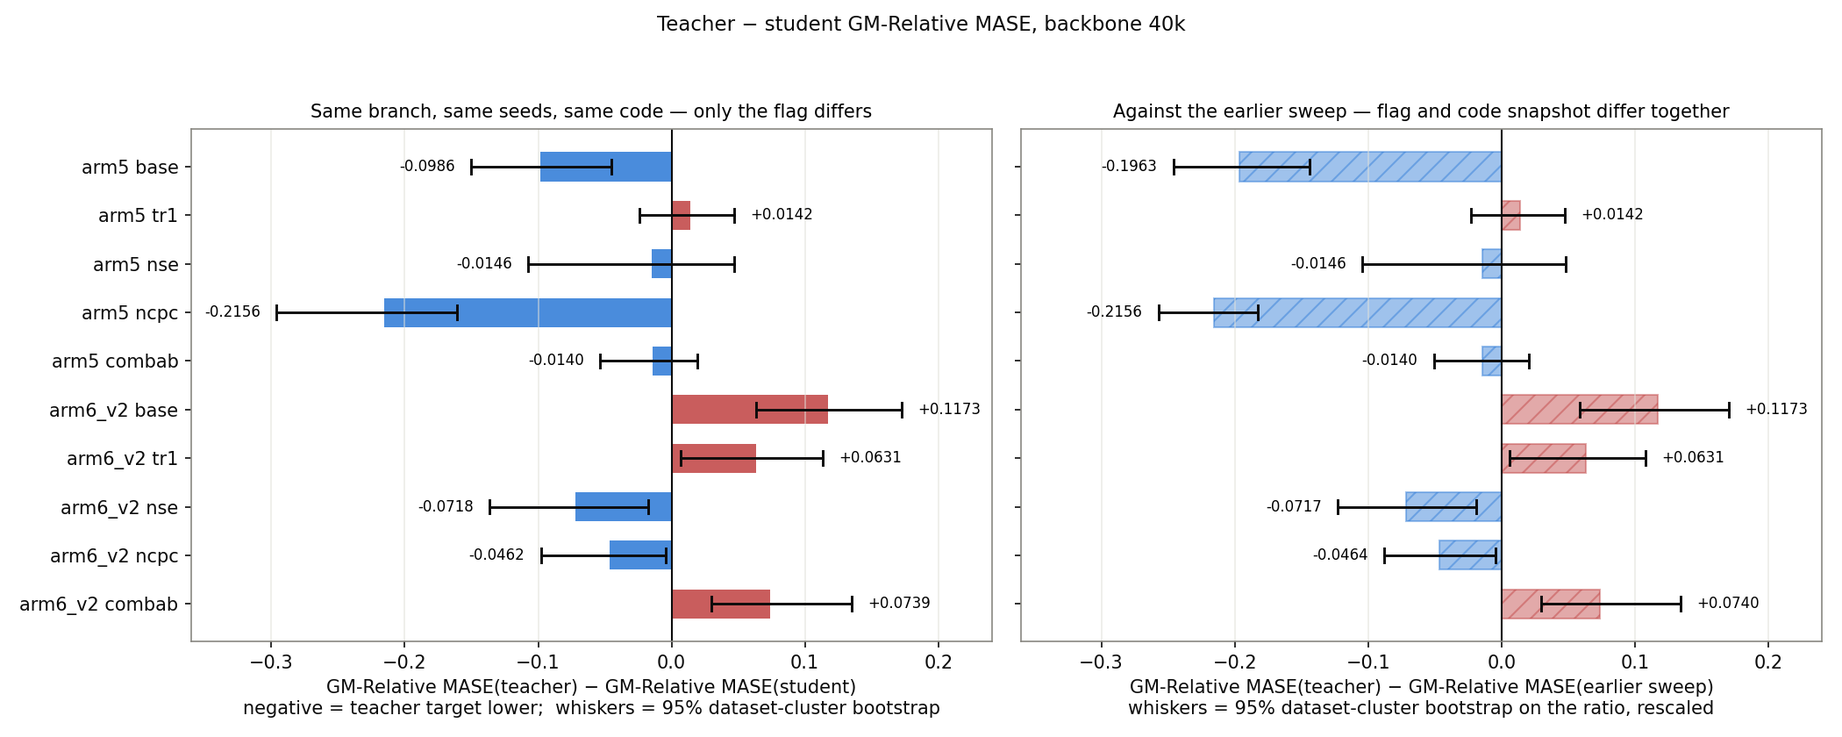
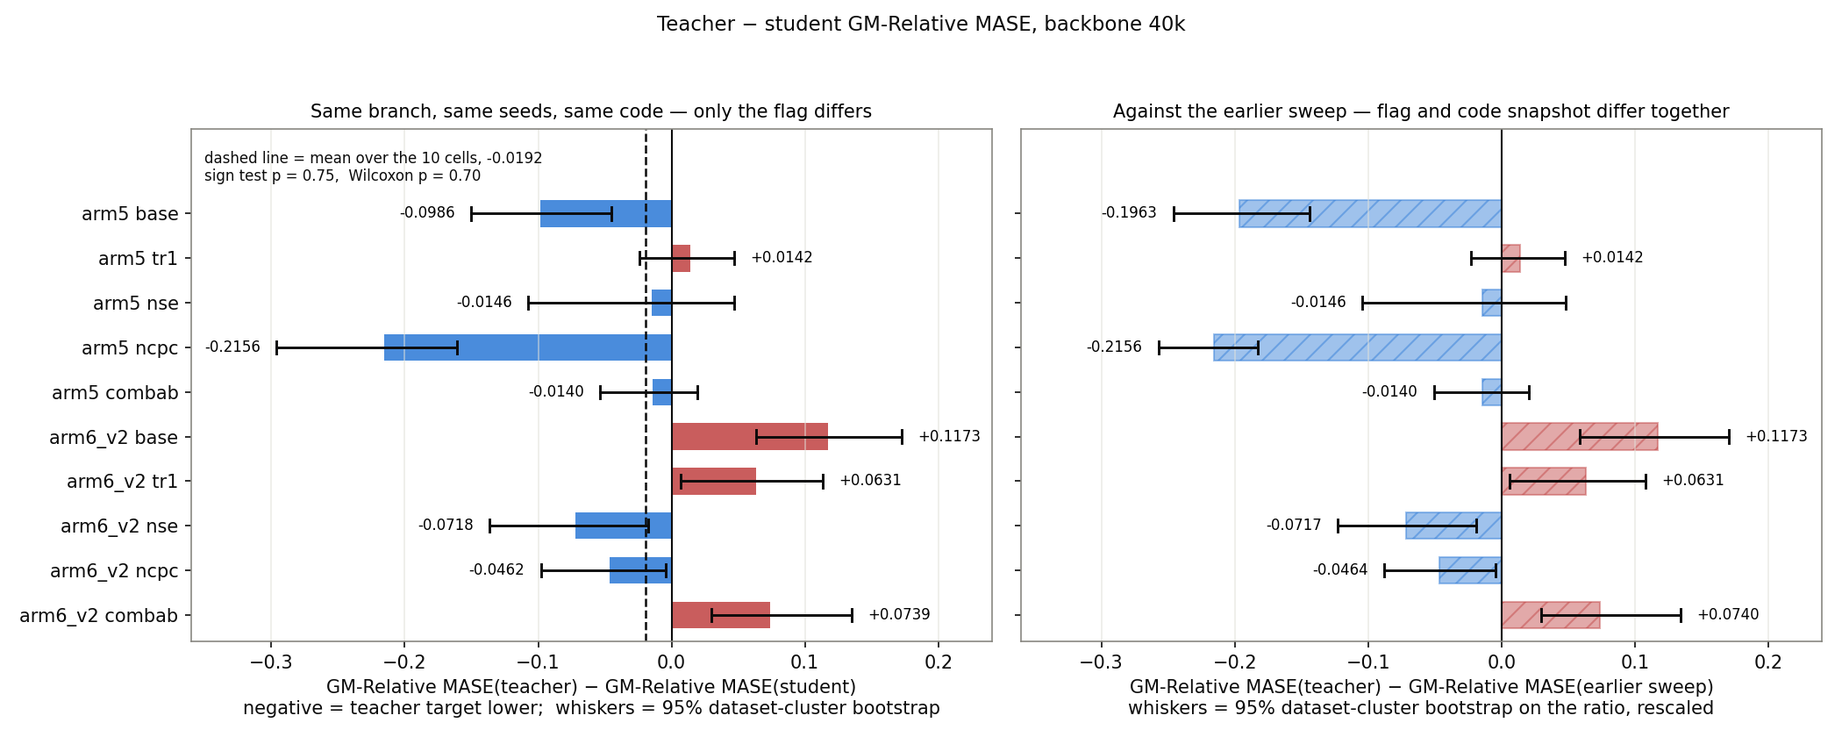
exp(#390): tenth-pass report — snapshot table, aggregate on the headline plot, tables to the back

diff --git a/reports/2026-08-04_lalign_teacher/plots/_make_controlled_delta.py b/reports/2026-08-04_lalign_teacher/plots/_make_controlled_delta.py
@@ -78,6 +78,19 @@ for y, arm in zip(ys, ARMS):
             f"{d:+.4f}", va="center",
             ha="right" if d < 0 else "left", fontsize=8)
 ax.axvline(0.0, color=INK, lw=1.0)
+
+# Aggregate over the ten cells: mean delta, and the two paired tests on it.
+agg = next(r for r in load(RESULTS / "controlled_paired_tests_40k.csv")
+           if r["comparison"] == "controlled" and r["bb_steps"] == "40000")
+mean_d = float(agg["mean_delta"])
+ax.axvline(mean_d, color=INK, lw=1.2, ls="--")
+ax.text(-0.35, len(ARMS) - 0.35,
+        f"dashed line = mean over the 10 cells, {mean_d:+.4f}\n"
+        f"sign test p = {float(agg['sign_test_p']):.2f},  "
+        f"Wilcoxon p = {float(agg['wilcoxon_p']):.2f}",
+        ha="left", va="bottom", fontsize=8, color=INK)
+ax.set_ylim(-0.6, len(ARMS) + 0.9)
+
 ax.set_title("Same branch, same seeds, same code — only the flag differs",
              fontsize=10)
 ax.set_xlabel("GM-Relative MASE(teacher) − GM-Relative MASE(student)\n"

diff --git a/reports/2026-08-04_lalign_teacher/lalign_teacher.md b/reports/2026-08-04_lalign_teacher/lalign_teacher.md
@@ -1,18 +1,18 @@
 # The EMA-teacher alignment target moves individual cells in both directions and does not move the set of 10 either way
 
-Pointing `L_align` at the EMA teacher moves 7 of the 10 measured cells by more than their bootstrap interval, 4 down and 3 up. Over the 10 cells the mean difference is −0.0192 and the median −0.0143, with 6 lower and 4 higher (sign test p = 0.75, Wilcoxon p = 0.70).
+Pointing `L_align` at the EMA teacher moves 7 of the 10 measured cells past their bootstrap interval, in both directions. Over the set of ten the mean shift is not separable from zero.
 
-![Teacher minus student GM-Relative MASE, backbone 40k, two comparisons](plots/controlled_vs_cross_delta.png)
+![Teacher minus student GM-Relative MASE at backbone 40k](plots/controlled_vs_cross_delta.png)
 
-*Left: the controlled comparison, where only `--align-target` differs. Right: the cross-experiment comparison, where the flag and the code snapshot differ together. Whiskers on both panels are 95% dataset-cluster bootstrap intervals (`results/controlled_delta_40k.csv`, `results/eval_bootstrap_ci.csv`).*
+*Teacher minus student GM-Relative MASE at backbone 40k: controlled (left), cross-experiment (right).*
 
-The earlier small-model sweep computed `L_align` against the student encoder under stop-gradient rather than against the EMA teacher it was meant to target, and the ten `L_align` cells here are that retrain, with the teacher. The metric is **GM-Relative MASE**, the geometric mean over 97 GIFT-Eval configs of `MASE(model) / MASE(seasonal_naive)`, where lower is better and 1.0 is parity.
+The right panel moves the flag and the code snapshot together, so only the left panel attributes a difference to the flag. The ten `L_align` cells here were retrained with `L_align` targeting the EMA teacher. The metric is **GM-Relative MASE**, the geometric mean over 97 GIFT-Eval configs of `MASE(model) / MASE(seasonal_naive)`, where lower is better and 1.0 is parity.
 
 ![GM-Relative MASE of all 30 cells at backbone 40k, seasonal-naive parity dashed](plots/eval_2L_gm_mase_bars.png)
 
 *All 30 cells at backbone 40k against the dashed parity line at 1.0. Coloured = the 10 cells retrained with `--align-target teacher`.*
 
-> **Cell** here is one loss recipe plus one setting, e.g. `arm5 combab`. The CSVs name it `arm_slug`. A cell measured under several head seeds is still one cell. The recipes and the settings are tabulated in [Protocol](#8-protocol).
+> **Cell** here is one loss recipe plus one setting, e.g. `arm5 combab`. The CSVs name it `arm_slug`. A cell measured under several head seeds is still one cell. The recipes and the settings are tabulated in [Protocol](#9-protocol).
 
 ## 1. What the flag does when nothing else changes
 
@@ -29,17 +29,30 @@ The earlier small-model sweep computed `L_align` against the student encoder und
 | `arm6_v2 ncpc` | 1.3159 | 1.3621 |
 | `arm6_v2 combab` | 1.2765 | 1.2025 |
 
-*The differences and their intervals are the left panel above. Backbone 40 000 pretraining steps, quantile head 15 000 steps on the frozen backbone, 97 GIFT-Eval configs under the official **B4 strategy** (single-window in-context prediction), forecast horizon 16. Intervals are dataset-level paired cluster bootstraps over the 28 base datasets, 10 000 resamples (`results/controlled_delta_40k.csv`, `experiments/2026-08-01_lalign_teacher/scripts/controlled_delta.py`).*
+*Controlled comparison at backbone 40k: GM-Relative MASE, teacher target against the same-branch student control (`results/controlled_delta_40k.csv`). The differences and their intervals are the left panel above.*
 
-Nine of the ten controls reproduce the earlier sweep to within 0.000157, four of them bit-identical across all 97 configs, and `arm5 base` is the one that does not, 1.547783 against 1.450053, a difference of −0.09773 with no config in common (`results/snapshot_reproduction_40k.csv`).
+| Cell | earlier sweep | this branch | difference | configs identical / 97 |
+|---|---|---|---|---|
+| `arm5 base` | 1.547783 | 1.450053 | −0.097730 | 0 |
+| `arm5 tr1` | 1.325372 | 1.325372 | +0.000000 | 97 |
+| `arm5 nse` | 1.468179 | 1.468179 | +0.000000 | 97 |
+| `arm5 ncpc` | 1.507886 | 1.507886 | +0.000000 | 97 |
+| `arm5 combab` | 1.286777 | 1.286803 | +0.000026 | 0 |
+| `arm6_v2 base` | 1.314899 | 1.314870 | −0.000028 | 0 |
+| `arm6_v2 tr1` | 1.468361 | 1.468361 | +0.000000 | 97 |
+| `arm6_v2 nse` | 1.379123 | 1.379195 | +0.000072 | 0 |
+| `arm6_v2 ncpc` | 1.362271 | 1.362114 | −0.000157 | 0 |
+| `arm6_v2 combab` | 1.202512 | 1.202512 | +0.000000 | 97 |
+
+*The student control against the earlier sweep's number for the same cell: same flag, different code snapshot (`results/snapshot_reproduction_40k.csv`).*
 
 ## 2. How far a cell moves under nothing but a head seed, on four frozen backbones
 
 ![Per-seed GM-Relative MASE on four frozen backbones](plots/head_seed_spread.png)
 
-*Four frozen backbones, the quantile head retrained under extra seeds — its init and its data order — and the full 97-config eval re-run each time (`results/seed_spread.csv`). Only these four cells carry replicate head seeds.*
+*Four frozen backbones, the quantile head retrained under extra seeds — its init and its data order — and the full 97-config eval re-run each time (`results/seed_spread.csv`).*
 
-Of the 20 cross-experiment differences in section 5, 8 exceed the largest head-seed range in absolute value and 11 exceed it in relative value.
+Only these four cells carry replicate head seeds.
 
 ## 3. Where the 30 cells sit across backbone horizons
 
@@ -50,6 +63,67 @@ Of the 20 cross-experiment differences in section 5, 8 exceed the largest head-s
 ![GM-Relative MASE of the 8 cells extended to backbone 200k](plots/eval_2L_gm_mase_bars_200k.png)
 
 *The 8 cells extended past 100k. Filled dot = backbone 200k, hollow = 100k, vertical whisker = measured head-seed range, on the 3 of 8 cells that carry replicate seeds.*
+
+## 4. Which domains the lowest cells win on
+
+The left radar puts cells measured at backbone 100k and at 200k on one chart, so it moves the backbone step as well as the cell.
+
+![Two radars of per-domain relative MASE](plots/eval_domain_radar.png)
+
+*The headline geometric mean split by dataset domain. Per-config source: `results/eval_gm_mase/<cell>/all_results.csv`, same seasonal-naive denominator as the aggregate.*
+
+| Cell (bb 200k) | Energy (32) | Web/CloudOps (20) | Transport (15) | Nature (15) | Econ/Fin (6) | Healthcare (5) | Sales (4) | all 97 |
+|---|---|---|---|---|---|---|---|---|
+| `arm6_v2 combab` ⟲ | 1.388 | 1.283 | 1.021 | **0.867** | 1.489 | 1.261 | **0.830** | 1.1850 |
+| `arm1 nse` | 1.594 | 1.368 | 1.226 | **0.954** | 1.823 | 1.225 | **0.898** | 1.3308 |
+| `arm6_v2 ncpc` ⟲ | 1.553 | 1.470 | 1.133 | **0.943** | 2.070 | 1.230 | **0.917** | 1.3325 |
+| `bimoco base` | 1.668 | 1.554 | 1.195 | **0.978** | 2.192 | 1.234 | **0.840** | 1.3993 |
+| `arm1 ncpc` | 1.617 | 1.559 | 1.173 | **0.998** | 2.442 | 1.329 | **0.886** | 1.4041 |
+| `arm3 tr1` | 1.744 | 1.693 | 1.202 | **0.980** | 2.469 | 1.386 | **0.897** | 1.4706 |
+| `arm1 combab` | 1.985 | 1.799 | 1.379 | 1.208 | 3.934 | 1.572 | 1.068 | 1.7107 |
+| `arm5 nse` ⟲ | 2.394 | 2.111 | 1.836 | 1.324 | 2.075 | 1.340 | **0.912** | 1.8887 |
+| *cells below 1.0, of 8* | 0/8 | 0/8 | 0/8 | 6/8 | 0/8 | 0/8 | 7/8 | 0/8 |
+
+*Configs per domain in brackets. Bold = below 1.0. Source: `results/eval_gm_mase/<cell>_bb200k_hd30000s/all_results.csv`.*
+
+## 5. The retrained cells against the earlier sweep
+
+Of the 20 cross-experiment differences, 8 exceed the largest head-seed range in absolute value and 11 exceed it in relative value. Across the ten cells the direction is 6 lower at 40k and 4 lower at 100k, sign test p = 0.75 at both steps (`results/eval_paired_tests.csv`); the 40k differences are the right panel of the headline figure and the 100k ones are in [Tables](#8-tables).
+
+## 6. Does latent movement track the improvement
+
+![Late h_t drift against the 100k to 200k change in GM-Relative MASE](plots/drift_vs_improvement.png)
+
+*Panels 1 and 2: `h_t` drift between adjacent checkpoints, and GM-Relative MASE on the same axis, for the 5 of the 8 extended cells whose GM-Relative MASE fell from 100k to 200k (`arm6_v2 combab`, `arm1 nse`, `bimoco base`, `arm1 ncpc`, `arm1 combab`). Panel 3: mean late drift against the 100k→200k change, all 8 extended cells (`results/latent_movement_pairs.csv`, 250 pairs over the 30 arms).*
+
+**Late drift** is the mean `h_t` drift over adjacent-checkpoint pairs beyond backbone step 100 000; against the 100k→200k change it gives Spearman ρ = −0.33 on n = 8 cells at p = 0.42, so it does not separate the improvers at this sample size.
+
+| Setting | `h_t` drift lower than base / 6 | `h_t` p | `e_t` drift lower than base / 6 | `e_t` p |
+|---|---|---|---|---|
+| `ncpc` | 1/6 (arm5) | 0.219 | 4/6 | 0.688 |
+| `nse` | 3/6 (arm3 / arm4 / arm5) | 1.000 | 2/6 | 0.688 |
+| `tr1` | 1/6 (arm5) | 0.219 | 2/6 | 0.688 |
+| `combab` | 1/6 (arm5) | 0.219 | 4/6 | 0.688 |
+
+*Drift against the base setting of the same recipe, per latent (`results/latent_movement_pairs.csv`).*
+
+## 7. Backbone loss and attention logit magnitude of the highest cell at each backbone step
+
+![Backbone loss and attention logit magnitude of the highest cell at each backbone step](plots/per_run_loss.png)
+
+*The selected run in colour, the other four settings of the same recipe in grey (`results/training_curves/`, `results/attn_amplitude/`).*
+
+| Cell | GM-Rel MASE | loss, start of 0–40k | end of 0–40k | end of 40–100k | end of 100–200k | peak qk logit | qk rank / 40 | rise-from-min | rise rank / 40 |
+|---|---|---|---|---|---|---|---|---|---|
+| `arm1 combab` | 3.1251 @ 40k | 19.03 | 19.82 | 19.54 | 19.75 | 6.51 | 1 | 4.4648 | 40 |
+| `arm5 nse` ⟲ | 1.8887 @ 200k | 19.80 | 14.11 | 13.95 | 13.97 | 259.94 | 40 | 0.0688 | 7 |
+| `arm6_v2 base` ⟲ | 1.9057 @ 100k | 12.98 | 4.92 | 4.92 | — | 12.75 | 7 | 0.2342 | 16 |
+
+*The three cells are selected by one rule: the highest GM-Relative MASE of the field at backbone 40k, at 100k and at 200k (`results/gm_relative_mase.csv`, `results/anomaly_windows.csv`, `results/anomaly_inspection.csv`). No non-finite loss or gap appears in any of the 40 backbones.*
+
+## 8. Tables
+
+### The 30 cells across backbone horizons
 
 | Rank @100k | Cell | bb 40k (head 15k) | bb 100k (head 30k) | 40k→100k | bb 200k (head 30k) | 100k→200k |
 |---|---|---|---|---|---|---|
@@ -84,93 +158,26 @@ Of the 20 cross-experiment differences in section 5, 8 exceed the largest head-s
 | 29 | `arm1 combab` | 3.1251 | 1.7595 | −1.3656 | 1.7107 | −0.0488 |
 | 30 | `arm6_v2 base` ⟲ | 1.4322 | 1.9057 † | +0.4735 | — | — |
 
-*Ranked by the 100k value. `⟲` marks a cell retrained with `--align-target teacher`; the other 20 carry no `L_align` term and are the earlier sweep's numbers, on the same seasonal-naive denominator. A dash means the cell was not extended. Values are head seed 20260722. † replicate head seeds (`results/seed_spread.csv`): `arm6_v2 base` @100k 1.8541 / 1.8659 / 1.9057, mean 1.8752, range 0.0516 — the value shown is seed 20260722 of the three. `arm5 nse` @200k 1.7979 / 1.8655 / 1.8887, mean 1.8507, range 0.0908. `arm6_v2 combab` @200k mean 1.1851, range 0.0063. `arm6_v2 ncpc` @200k mean 1.3472, range 0.0252.*
+*Backing data for section 3, ranked by the 100k value. `⟲` marks a cell retrained with `--align-target teacher`; the other 20 carry no `L_align` term and are the earlier sweep's numbers, on the same seasonal-naive denominator. A dash means the cell was not extended. Values are head seed 20260722. † the cell carries replicate head seeds; their spreads are in section 2 (`results/seed_spread.csv`).*
 
-## 4. Which domains the lowest cells win on
+### The retrained cells against the earlier sweep, backbone 100k
 
-The left radar puts cells measured at backbone 100k and at 200k on one chart, so it moves the backbone step as well as the cell.
+| Cell | teacher | earlier sweep | ratio | CI 95% lo | CI 95% hi | CI excludes 1 |
+|---|---|---|---|---|---|---|
+| `arm5 base` | 1.4510 | 1.5579 | 0.9314 | 0.8881 | 0.9669 | yes |
+| `arm5 tr1` | 1.3710 | 1.4249 | 0.9622 | 0.9061 | 1.0084 | no |
+| `arm5 nse` | 1.4017 | 1.3980 | 1.0026 | 0.9657 | 1.0395 | no |
+| `arm5 ncpc` | 1.3419 | 1.4459 | 0.9281 | 0.8658 | 0.9753 | yes |
+| `arm5 combab` | 1.3678 | 1.2456 | 1.0981 | 1.0645 | 1.1346 | yes |
+| `arm6_v2 base` | 1.9057 | 1.3449 | 1.4169 | 1.3030 | 1.5135 | yes |
+| `arm6_v2 tr1` | 1.7064 | 1.5188 | 1.1236 | 1.0766 | 1.1705 | yes |
+| `arm6_v2 nse` | 1.3368 | 1.3914 | 0.9608 | 0.9343 | 0.9864 | yes |
+| `arm6_v2 ncpc` | 1.3012 | 1.2978 | 1.0027 | 0.9672 | 1.0452 | no |
+| `arm6_v2 combab` | 1.2514 | 1.1616 | 1.0773 | 1.0439 | 1.1254 | yes |
 
-![Two radars of per-domain relative MASE](plots/eval_domain_radar.png)
+*Backing data for section 5. This comparison moves the flag and the code snapshot together, so it does not attribute a difference to the flag; section 1 is the one that does. Ratio = teacher ÷ earlier sweep, below 1.0 means the teacher run scored lower. Intervals are 95% dataset-cluster bootstraps (`results/eval_bootstrap_ci.csv`). The backbone-40k rows of the same file are the right panel of the headline figure.*
 
-*The headline geometric mean split by dataset domain. Per-config source: `results/eval_gm_mase/<cell>/all_results.csv`, same seasonal-naive denominator as the aggregate.*
-
-| Cell (bb 200k) | Energy (32) | Web/CloudOps (20) | Transport (15) | Nature (15) | Econ/Fin (6) | Healthcare (5) | Sales (4) | all 97 |
-|---|---|---|---|---|---|---|---|---|
-| `arm6_v2 combab` ⟲ | 1.388 | 1.283 | 1.021 | **0.867** | 1.489 | 1.261 | **0.830** | 1.1850 |
-| `arm1 nse` | 1.594 | 1.368 | 1.226 | **0.954** | 1.823 | 1.225 | **0.898** | 1.3308 |
-| `arm6_v2 ncpc` ⟲ | 1.553 | 1.470 | 1.133 | **0.943** | 2.070 | 1.230 | **0.917** | 1.3325 |
-| `bimoco base` | 1.668 | 1.554 | 1.195 | **0.978** | 2.192 | 1.234 | **0.840** | 1.3993 |
-| `arm1 ncpc` | 1.617 | 1.559 | 1.173 | **0.998** | 2.442 | 1.329 | **0.886** | 1.4041 |
-| `arm3 tr1` | 1.744 | 1.693 | 1.202 | **0.980** | 2.469 | 1.386 | **0.897** | 1.4706 |
-| `arm1 combab` | 1.985 | 1.799 | 1.379 | 1.208 | 3.934 | 1.572 | 1.068 | 1.7107 |
-| `arm5 nse` ⟲ | 2.394 | 2.111 | 1.836 | 1.324 | 2.075 | 1.340 | **0.912** | 1.8887 |
-| *cells below 1.0, of 8* | 0/8 | 0/8 | 0/8 | 6/8 | 0/8 | 0/8 | 7/8 | 0/8 |
-
-*Configs per domain in brackets. Bold = below 1.0. Source: `results/eval_gm_mase/<cell>_bb200k_hd30000s/all_results.csv`.*
-
-## 5. The retrained cells against the earlier sweep
-
-Across the ten cells the direction is 6 lower at 40k and 4 lower at 100k, sign test p = 0.75 at both steps (`results/eval_paired_tests.csv`).
-
-| Cell | bb steps | teacher | earlier sweep | ratio | CI 95% lo | CI 95% hi | CI excludes 1 |
-|---|---|---|---|---|---|---|---|
-| `arm5 base` | 40k | 1.3515 | 1.5478 | 0.8732 | 0.8411 | 0.9069 | yes |
-| `arm5 tr1` | 40k | 1.3396 | 1.3254 | 1.0107 | 0.9827 | 1.0359 | no |
-| `arm5 nse` | 40k | 1.4536 | 1.4682 | 0.9901 | 0.9288 | 1.0327 | no |
-| `arm5 ncpc` | 40k | 1.2923 | 1.5079 | 0.8570 | 0.8294 | 0.8787 | yes |
-| `arm5 combab` | 40k | 1.2728 | 1.2868 | 0.9891 | 0.9606 | 1.0160 | no |
-| `arm6_v2 base` | 40k | 1.4322 | 1.3149 | 1.0892 | 1.0447 | 1.1295 | yes |
-| `arm6_v2 tr1` | 40k | 1.5315 | 1.4684 | 1.0430 | 1.0041 | 1.0737 | yes |
-| `arm6_v2 nse` | 40k | 1.3074 | 1.3791 | 0.9480 | 0.9109 | 0.9861 | yes |
-| `arm6_v2 ncpc` | 40k | 1.3159 | 1.3623 | 0.9660 | 0.9356 | 0.9966 | yes |
-| `arm6_v2 combab` | 40k | 1.2765 | 1.2025 | 1.0615 | 1.0249 | 1.1117 | yes |
-| `arm5 base` | 100k | 1.4510 | 1.5579 | 0.9314 | 0.8881 | 0.9669 | yes |
-| `arm5 tr1` | 100k | 1.3710 | 1.4249 | 0.9622 | 0.9061 | 1.0084 | no |
-| `arm5 nse` | 100k | 1.4017 | 1.3980 | 1.0026 | 0.9657 | 1.0395 | no |
-| `arm5 ncpc` | 100k | 1.3419 | 1.4459 | 0.9281 | 0.8658 | 0.9753 | yes |
-| `arm5 combab` | 100k | 1.3678 | 1.2456 | 1.0981 | 1.0645 | 1.1346 | yes |
-| `arm6_v2 base` | 100k | 1.9057 | 1.3449 | 1.4169 | 1.3030 | 1.5135 | yes |
-| `arm6_v2 tr1` | 100k | 1.7064 | 1.5188 | 1.1236 | 1.0766 | 1.1705 | yes |
-| `arm6_v2 nse` | 100k | 1.3368 | 1.3914 | 0.9608 | 0.9343 | 0.9864 | yes |
-| `arm6_v2 ncpc` | 100k | 1.3012 | 1.2978 | 1.0027 | 0.9672 | 1.0452 | no |
-| `arm6_v2 combab` | 100k | 1.2514 | 1.1616 | 1.0773 | 1.0439 | 1.1254 | yes |
-
-*This comparison moves the flag and the code snapshot together, so it does not attribute a difference to the flag; section 1 is the one that does. Ratio = teacher ÷ earlier sweep, below 1.0 means the teacher run scored lower. Intervals are dataset-level paired cluster bootstraps, 10 000 resamples (`results/eval_bootstrap_ci.csv`).*
-
-## 6. Does latent movement track the improvement
-
-![Late h_t drift against the 100k to 200k change in GM-Relative MASE](plots/drift_vs_improvement.png)
-
-*Panels 1 and 2: `h_t` drift between adjacent checkpoints, and GM-Relative MASE on the same axis, for the 5 of the 8 extended cells whose GM-Relative MASE fell from 100k to 200k (`arm6_v2 combab`, `arm1 nse`, `bimoco base`, `arm1 ncpc`, `arm1 combab`). Panel 3: mean late drift against the 100k→200k change, all 8 extended cells (`results/latent_movement_pairs.csv`, 250 pairs over the 30 arms).*
-
-Panel 3 gives Spearman ρ = −0.33 on n = 8 cells at p = 0.42, so late drift does not separate the improvers at this sample size.
-
-*A setting counts as* lower *when its mean `1 − cos` displacement over adjacent-checkpoint pairs falls below the base setting of the same recipe; denominator is the six recipes, p is a two-sided exact binomial test (`results/latent_movement_pairs.csv`).*
-
-| Setting | `h_t` drift lower than base / 6 | `h_t` p | `e_t` drift lower than base / 6 | `e_t` p |
-|---|---|---|---|---|
-| `ncpc` | 1/6 (arm5) | 0.219 | 4/6 | 0.688 |
-| `nse` | 3/6 (arm3 / arm4 / arm5) | 1.000 | 2/6 | 0.688 |
-| `tr1` | 1/6 (arm5) | 0.219 | 2/6 | 0.688 |
-| `combab` | 1/6 (arm5) | 0.219 | 4/6 | 0.688 |
-
-## 7. Backbone loss and attention logit magnitude of the highest cell at each backbone step
-
-![Backbone loss and attention logit magnitude of the highest cell at each backbone step](plots/per_run_loss.png)
-
-*The three cells below are selected by one rule: the highest GM-Relative MASE of the field at backbone 40k, at 100k and at 200k (`results/gm_relative_mase.csv`). The selected run in colour, the other four settings of the same recipe in grey (`results/training_curves/`, `results/attn_amplitude/`). Lower panels: `qk_logit_maxabs` averaged over layers and blocks; the table column is the maximum, not this mean.*
-
-*Each loss value is the mean over the first, or the last, 5% of the logged steps of that window, not the value at a single step (`results/anomaly_windows.csv`). **Rise-from-minimum** is the run's final loss minus the lowest loss it ever recorded. **Peak qk logit** is `qk_logit_maxabs`, the peak absolute pre-softmax attention logit, logged every 200 steps; the value is the maximum over layers, over the `enc` and `fcst` blocks, and over the run. Rank 1 = lowest of the 40 backbones. No non-finite loss or gap appears in any of the 40 (`results/anomaly_inspection.csv`).*
-
-| Cell | GM-Rel MASE | loss, start of 0–40k | end of 0–40k | end of 40–100k | end of 100–200k | peak qk logit | rank of 40 | rise-from-min | rank of 40 |
-|---|---|---|---|---|---|---|---|---|---|
-| `arm1 combab` | 3.1251 @ 40k | 19.03 | 19.82 | 19.54 | 19.75 | 6.51 | 1 | 4.4648 | 40 |
-| `arm5 nse` ⟲ | 1.8887 @ 200k | 19.80 | 14.11 | 13.95 | 13.97 | 259.94 | 40 | 0.0688 | 7 |
-| `arm6_v2 base` ⟲ | 1.9057 @ 100k | 12.98 | 4.92 | 4.92 | — | 12.75 | 7 | 0.2342 | 16 |
-
-*Over 0k–40k the `arm1 combab` loss window mean rises by +0.7939, against −3.10 to −7.09 for every other `arm1` setting over the same window.*
-
-## 8. Protocol
+## 9. Protocol
 
 ### Loss recipes
 
@@ -196,11 +203,14 @@ Panel 3 gives Spearman ρ = −0.33 on n = 8 cells at p = 0.42, so late drift do
 ### Metrics
 
 - **GM-Relative MASE** — geometric mean over 97 GIFT-Eval configs of `MASE(model) / MASE(seasonal_naive)`, official GIFT-Eval **B4 strategy** (single-window in-context prediction, backbone context length matching the config's expected horizon), forecast horizon 16. Lower is better; above 1.0 means seasonal naive wins on that geometric average. All 30 cells share one seasonal-naive denominator file, byte-identical to the earlier sweep's, so all of them sit on one scale.
+- **95% dataset-cluster bootstrap** — the one interval used everywhere in this report: a dataset-level paired cluster bootstrap over the 28 base datasets, 10 000 resamples (`experiments/2026-08-01_lalign_teacher/scripts/controlled_delta.py`).
 - **`h_t`, `e_t`** — the encoder-output latent and the patch-embedding latent, shape `[B, T, C, H]`.
 - **`ff`** — mean `cos(f̂, h_{t+1})` between the forecaster's next-step prediction and the encoder's next-step latent, unit-normalised. `1 − ff` is a cosine distance in [0, 2]; smaller = closer forecast.
-- **Latent drift** at checkpoint pair `(step_i, step_j)` — `mean_{b,t,c} 1 − cos(h_t(model_j), h_t(model_i))` on a fixed held-out batch (`torch.manual_seed(20260722)`, `B=8`, `T=4096`, `C=1`, ARMA-synthetic), and the same for `e_t`.
+- **Latent drift** at checkpoint pair `(step_i, step_j)` — `mean_{b,t,c} 1 − cos(h_t(model_j), h_t(model_i))` on a fixed held-out batch (`torch.manual_seed(20260722)`, `B=8`, `T=4096`, `C=1`, ARMA-synthetic), and the same for `e_t`. A setting counts as *lower* than base when its mean drift over adjacent-checkpoint pairs falls below the base setting of the same recipe; the section-6 denominator is the six recipes and the p is a two-sided exact binomial test.
 - **`u_batchtime`** — `1/(d · off-diagonal Gram mean)` over `(B×T)` samples of the given latent, clamped to [0, 1]. 1 = every `H` dimension carries independent information.
 - **`L_align`** — `(2 − 2·cos(f_t, h_target_{t+1})).mean()`, pulling the forecaster output toward the next encoder latent, gradient through the forecaster only. `--align-target student` takes `h_target` from the student encoder under stop-gradient; `--align-target teacher` takes it from the EMA teacher. The ten `⟲` cells are the teacher setting.
+- **Loss window** — each loss value in section 7 is the mean over the first, or the last, 5% of the logged steps of that window, not the value at a single step. **Rise-from-minimum** is the run's final loss minus the lowest loss it ever recorded.
+- **Peak qk logit** — `qk_logit_maxabs`, the peak absolute pre-softmax attention logit, logged every 200 steps; the table value is the maximum over layers, over the `enc` and `fcst` blocks, and over the run, while the lower panels of the section-7 figure plot it averaged over layers and blocks. Rank 1 = lowest of the 40 backbones.
 
 ### Training
 
@@ -238,6 +248,6 @@ Quantile head, trained on the frozen backbone, `--grad-clip 1.0` at every horizo
 
 *`u_batchtime` on `h_t` and on `e_t`, per training step (`results/training_curves/`). Per-panel y-scale.*
 
-## 9. Data
+## 10. Data
 
 Every CSV behind this report is in [`results/`](results/), documented in [`results/README.md`](results/README.md). The plot scripts are in [`plots/`](plots/); the analysis scripts are in `experiments/2026-08-01_lalign_teacher/scripts/`. The pre-teacher measurements of the same ten cells are in [`reports/2026-07-21_split_pred_rep_small/small_long.md`](../2026-07-21_split_pred_rep_small/small_long.md).

diff --git a/reports/2026-08-04_lalign_teacher/results/README.md b/reports/2026-08-04_lalign_teacher/results/README.md
@@ -56,11 +56,12 @@ same command line, all 97 configs:
 
 The first two rows differ only in the code they ran on, and they are 0.0977
 apart. The teacher-vs-earlier-sweep delta of -0.1963 is therefore not a measurement
-of the flag: inside one snapshot the flag is worth -0.0986 on this cell,
-about half of it.
+of the flag. On this one cell, inside one snapshot, the flag moves -0.0986;
+over the ten controlled cells the mean is -0.0192 with sign test p = 0.75, so
+the arm5 number is a cell, not a value of the flag.
 
 All ten cells now carry that check. Nine reproduce the earlier sweep within
-0.0002 — four of them bit-identical across all 97 configs, five agreeing to
+0.0002 — five of them bit-identical across all 97 configs, four agreeing to
 at worst 0.000157 in the aggregate. arm5 base is the only one that does not,
 and it moves 0.09773. `snapshot_reproduction_40k.csv` holds the ten rows.
 
